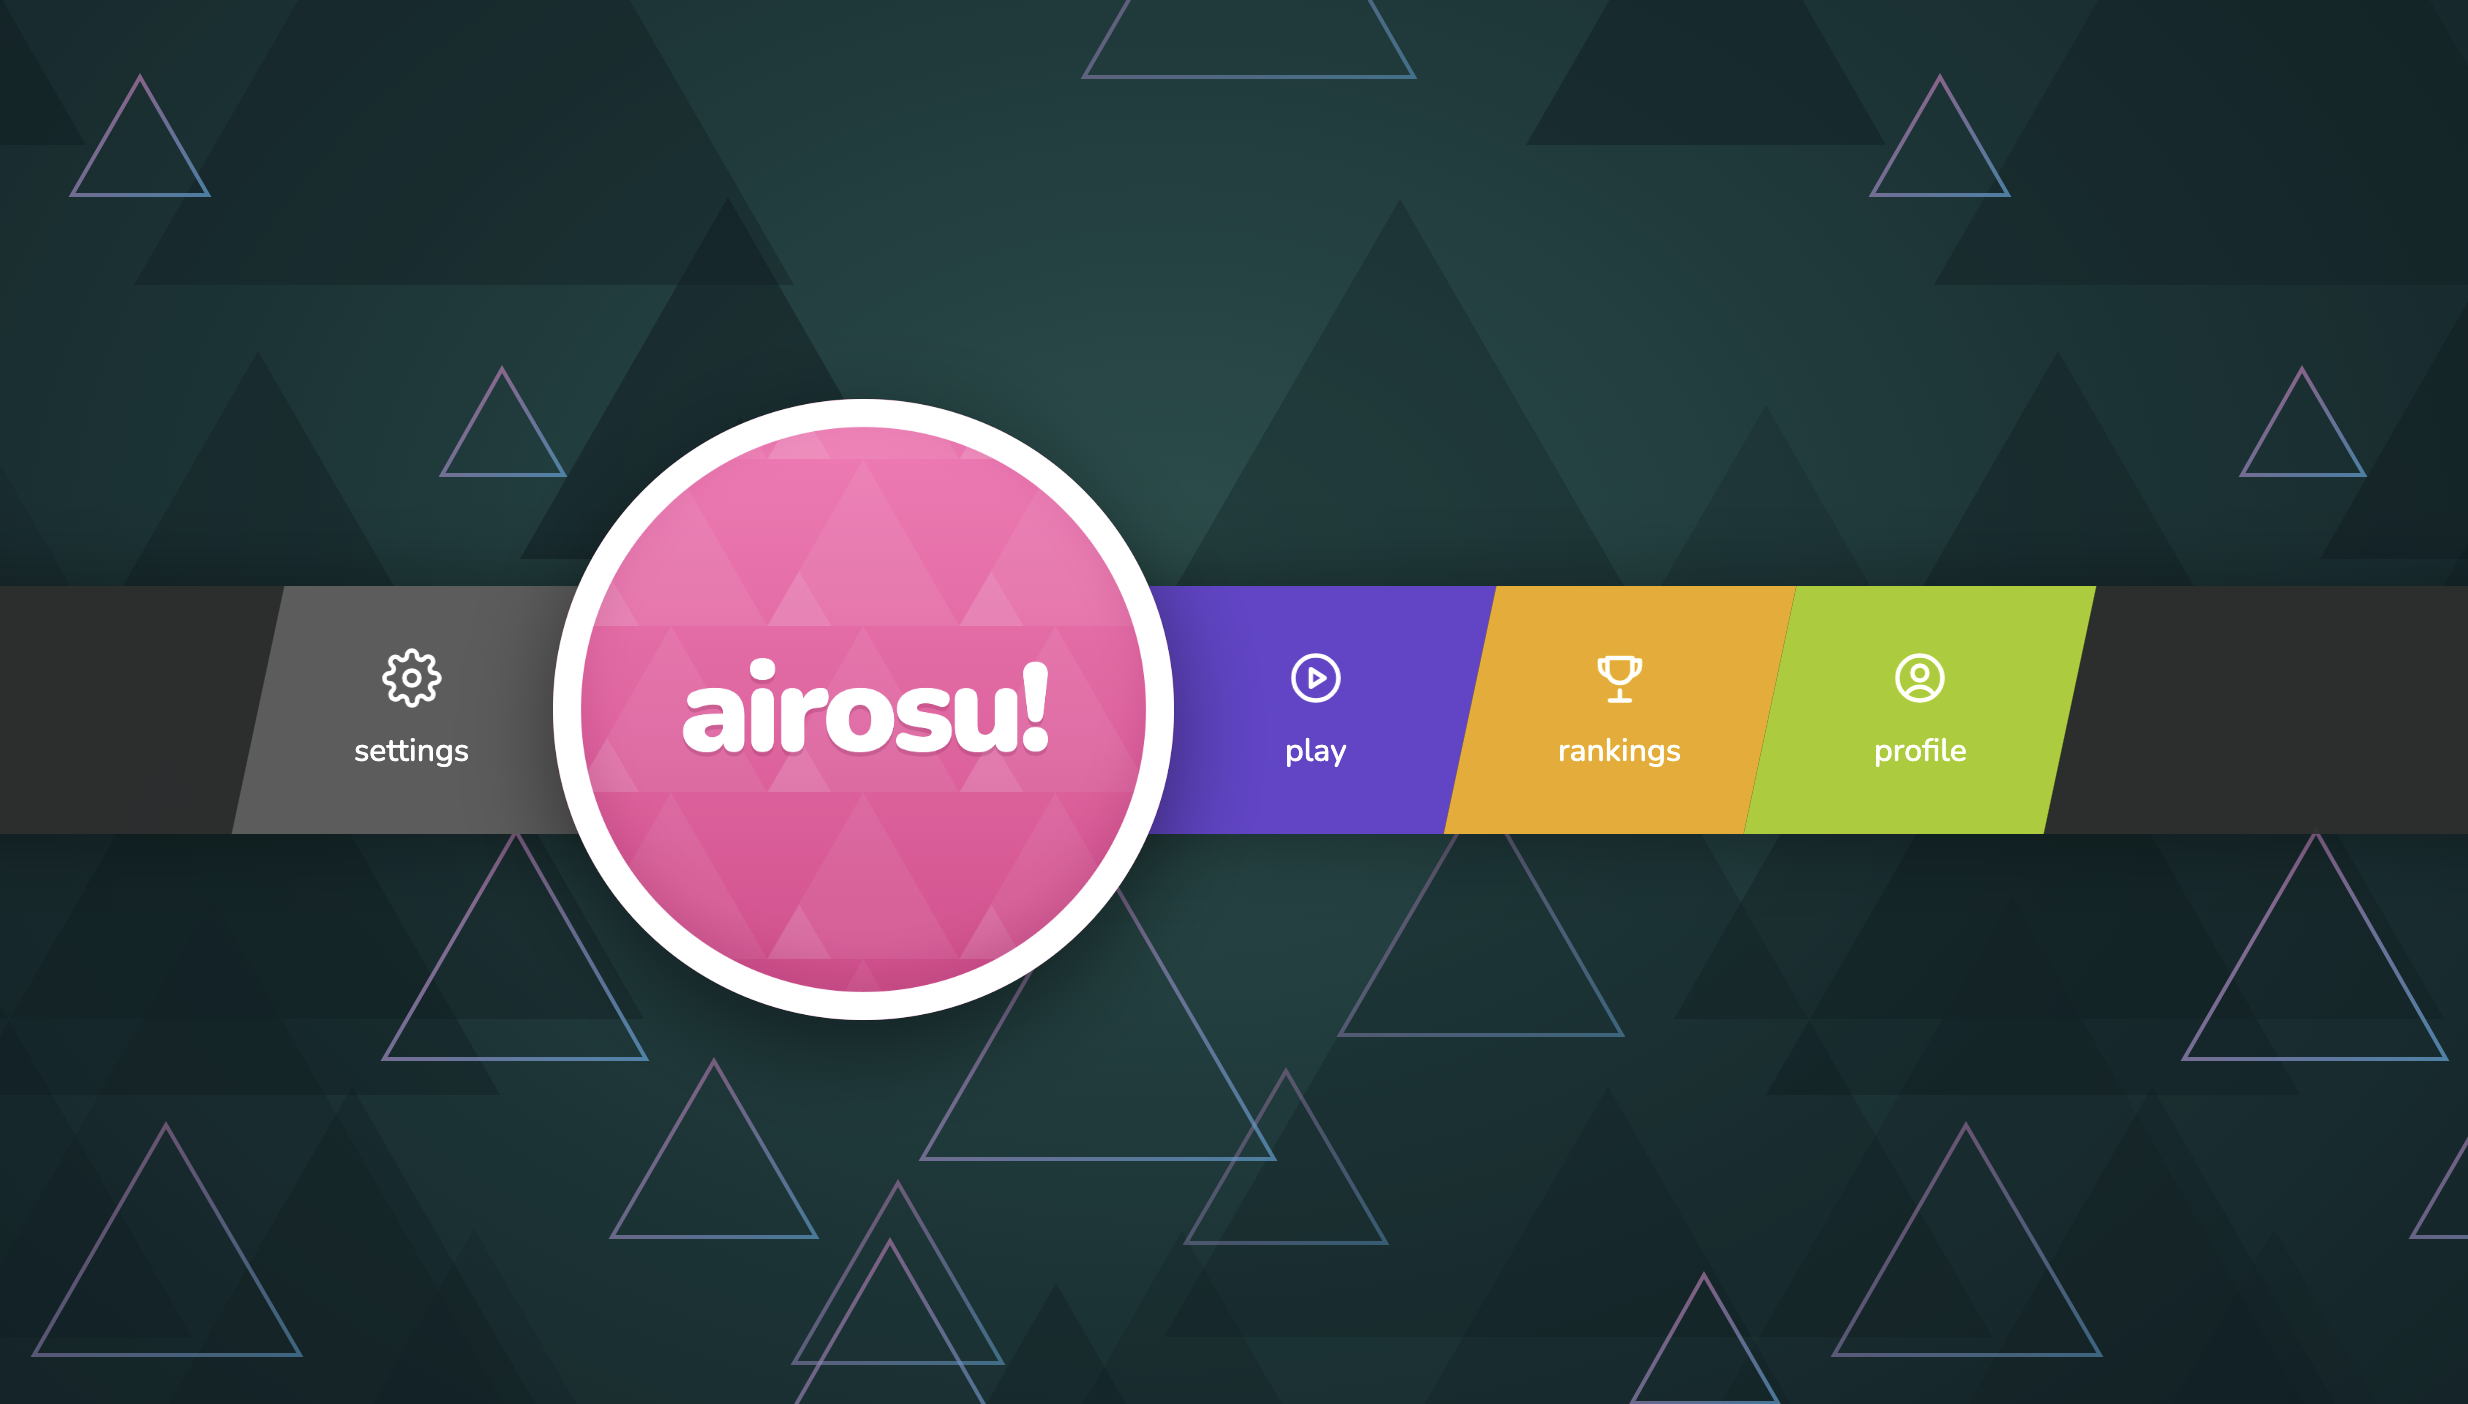
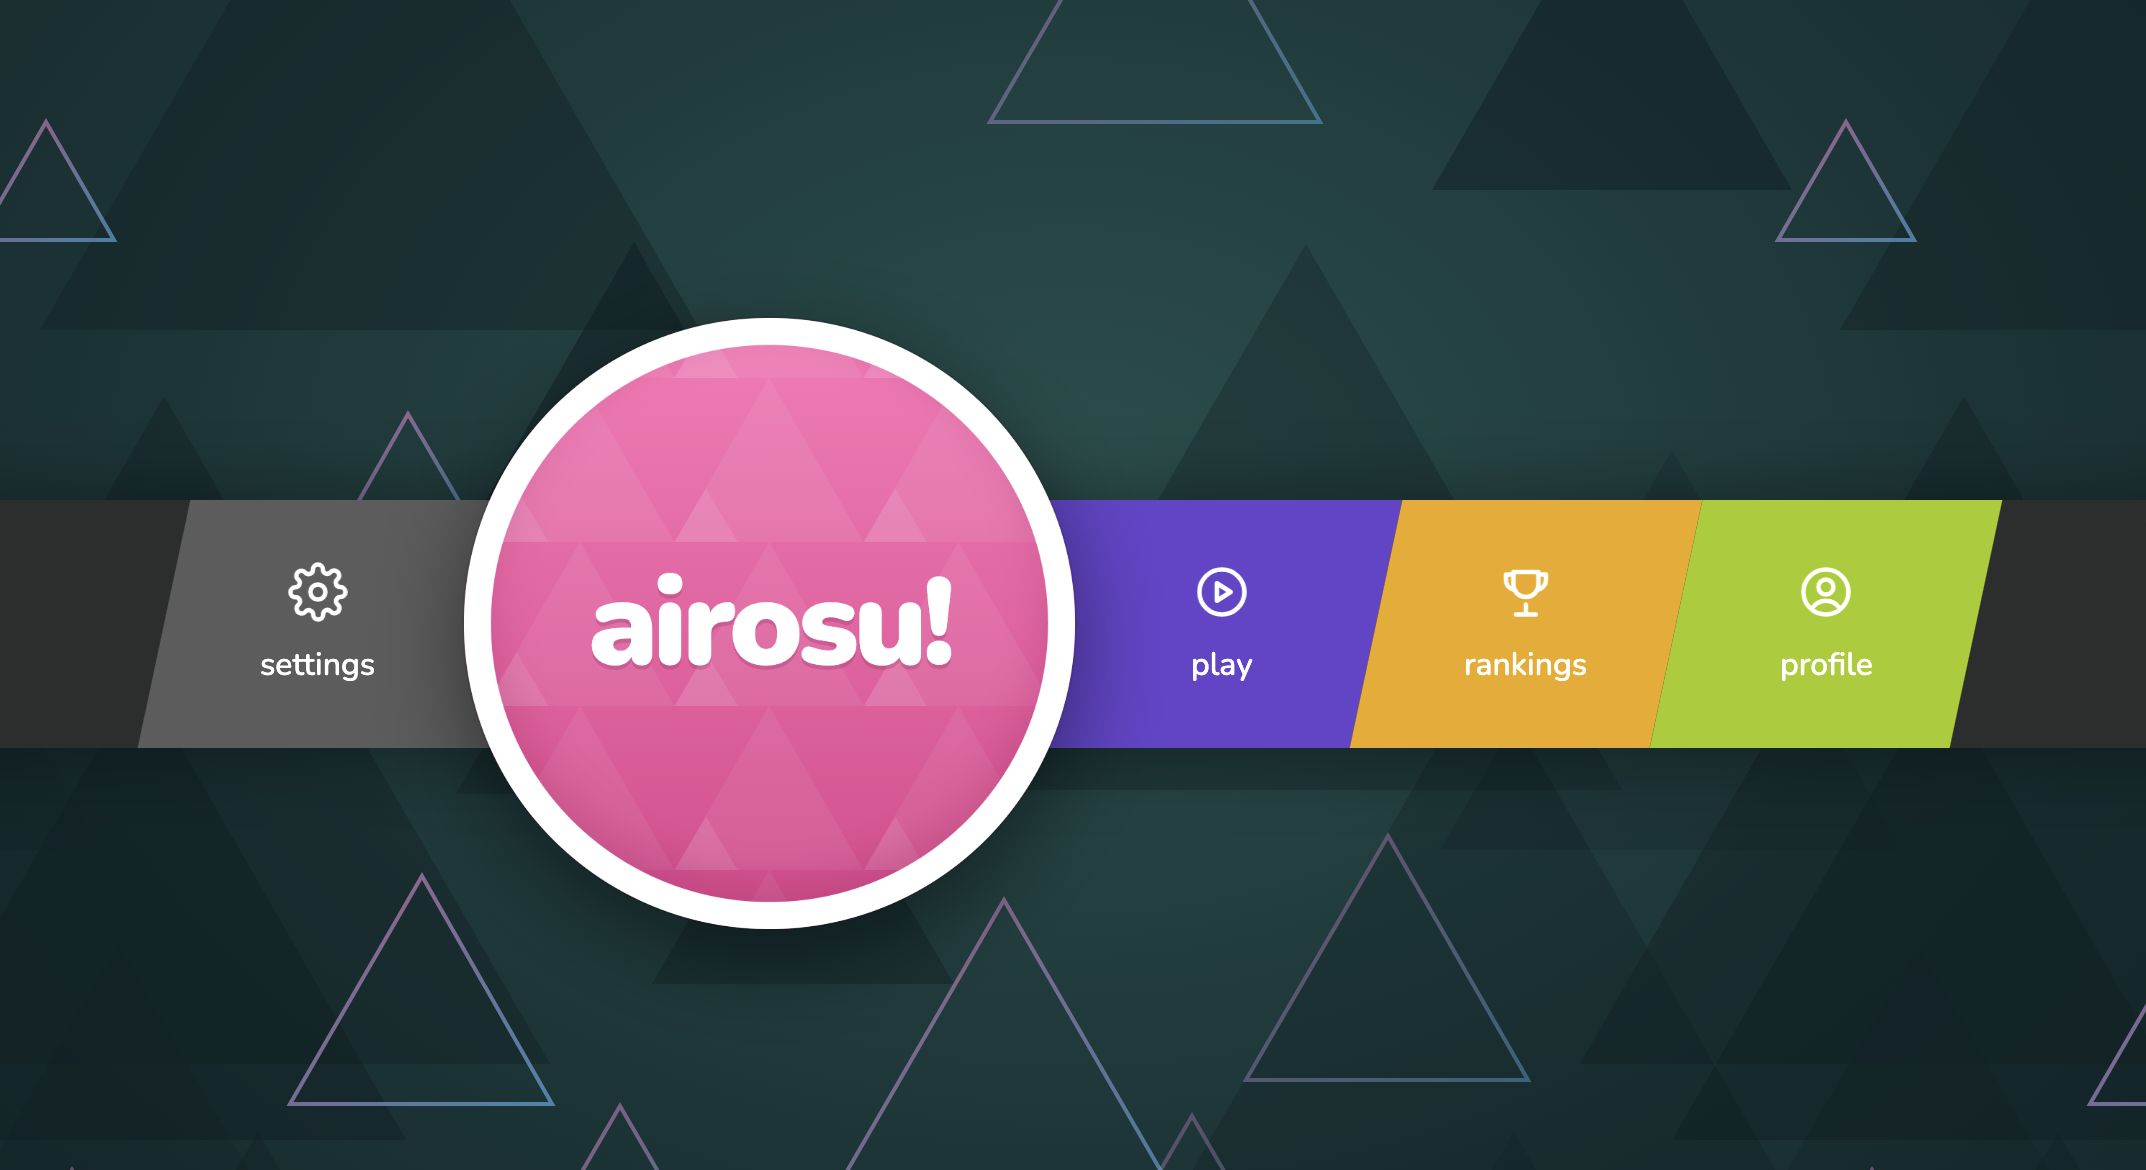
style: frame app images with consistent cropped sizing

diff --git a/components/apps/AppDirectory.tsx b/components/apps/AppDirectory.tsx
@@ -25,9 +25,9 @@ const apps = [
     github: "https://github.com/yanicells/unisort",
     image: {
       src: "/apps/unisort.png",
-      width: 2062,
-      height: 1492,
-      alt: "UniSort's newspaper-style homepage and university match results",
+      width: 898,
+      height: 391,
+      alt: "UniSort's newspaper-style university sorting hat banner",
     },
     description:
       "A personality quiz to help you explore your fit among the Philippines' Big Four universities. Get a feel for each campus through student stories and a shared freedom wall. It's a playful way to imagine where you might feel at home.",
@@ -39,8 +39,8 @@ const apps = [
     github: "https://github.com/yanicells/airosu",
     image: {
       src: "/apps/airosu.png",
-      width: 2468,
-      height: 1404,
+      width: 2146,
+      height: 1170,
       alt: "airosu's pink logo and colorful rhythm game menu",
     },
     description:

diff --git a/app/globals.css b/app/globals.css
@@ -131,8 +131,11 @@ a:focus-visible {
 .app-image {
   display: block;
   width: 100%;
-  height: auto;
-  border-radius: 3px;
+  height: 200px;
+  object-fit: cover;
+  border: 1px solid #e2999233;
+  border-radius: 12px;
+  box-shadow: 0 0 0 4px #17141766;
 }
 .app-links {
   display: flex;
@@ -195,6 +198,9 @@ a:focus-visible {
   .app-links {
     gap: 12px 16px;
     font-size: 13px;
+  }
+  .app-image {
+    height: 150px;
   }
   .app-details p {
     font-size: 14px;
